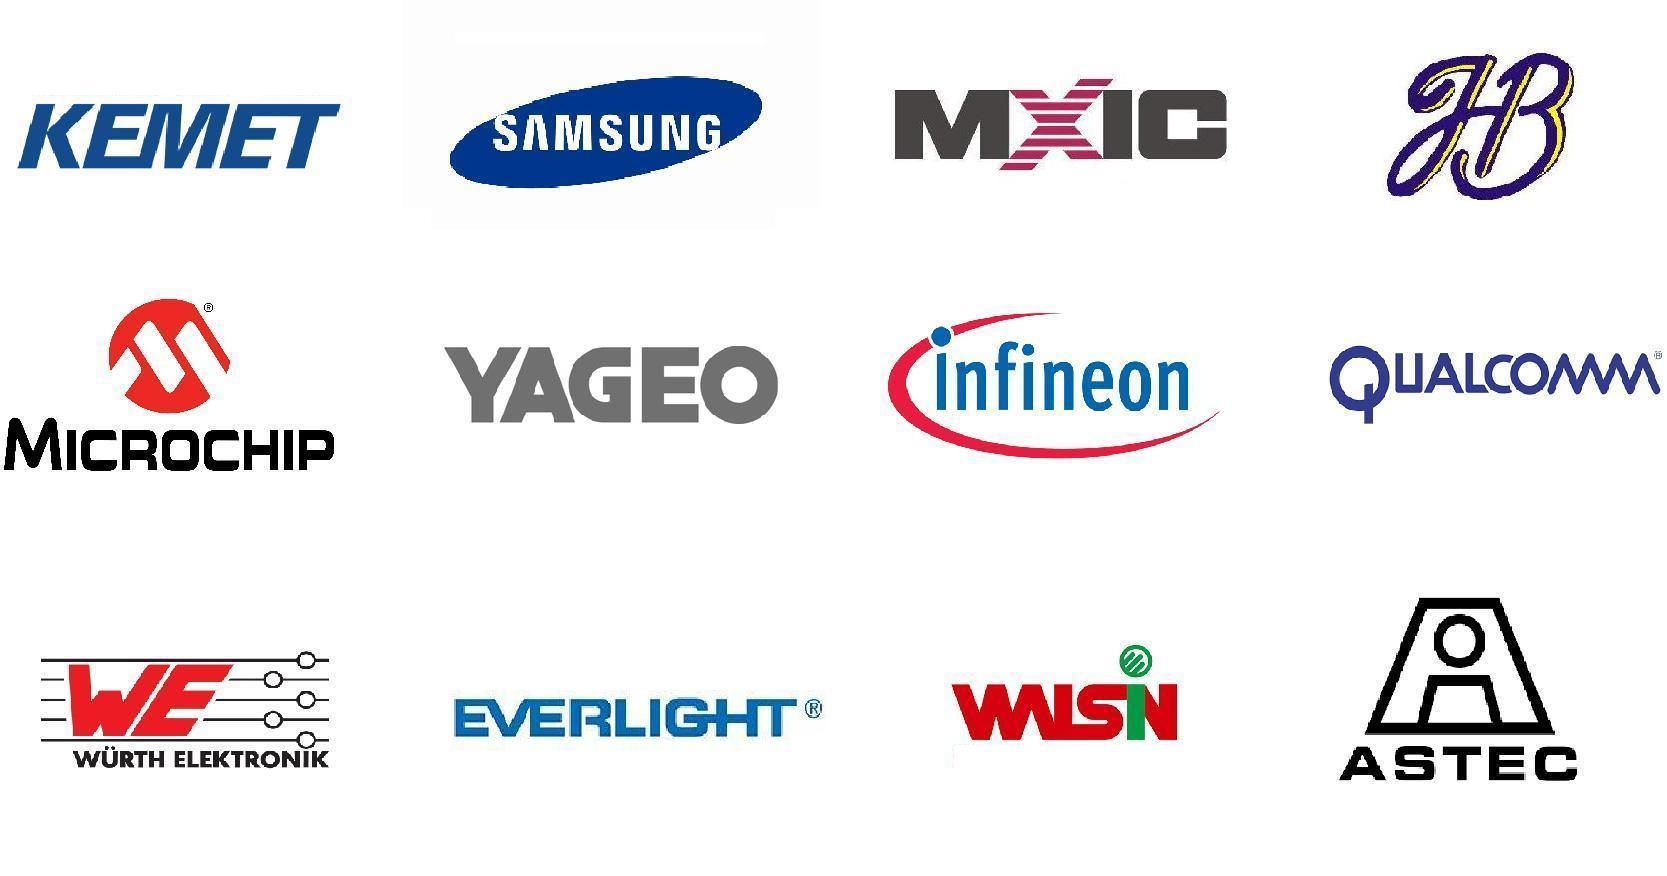
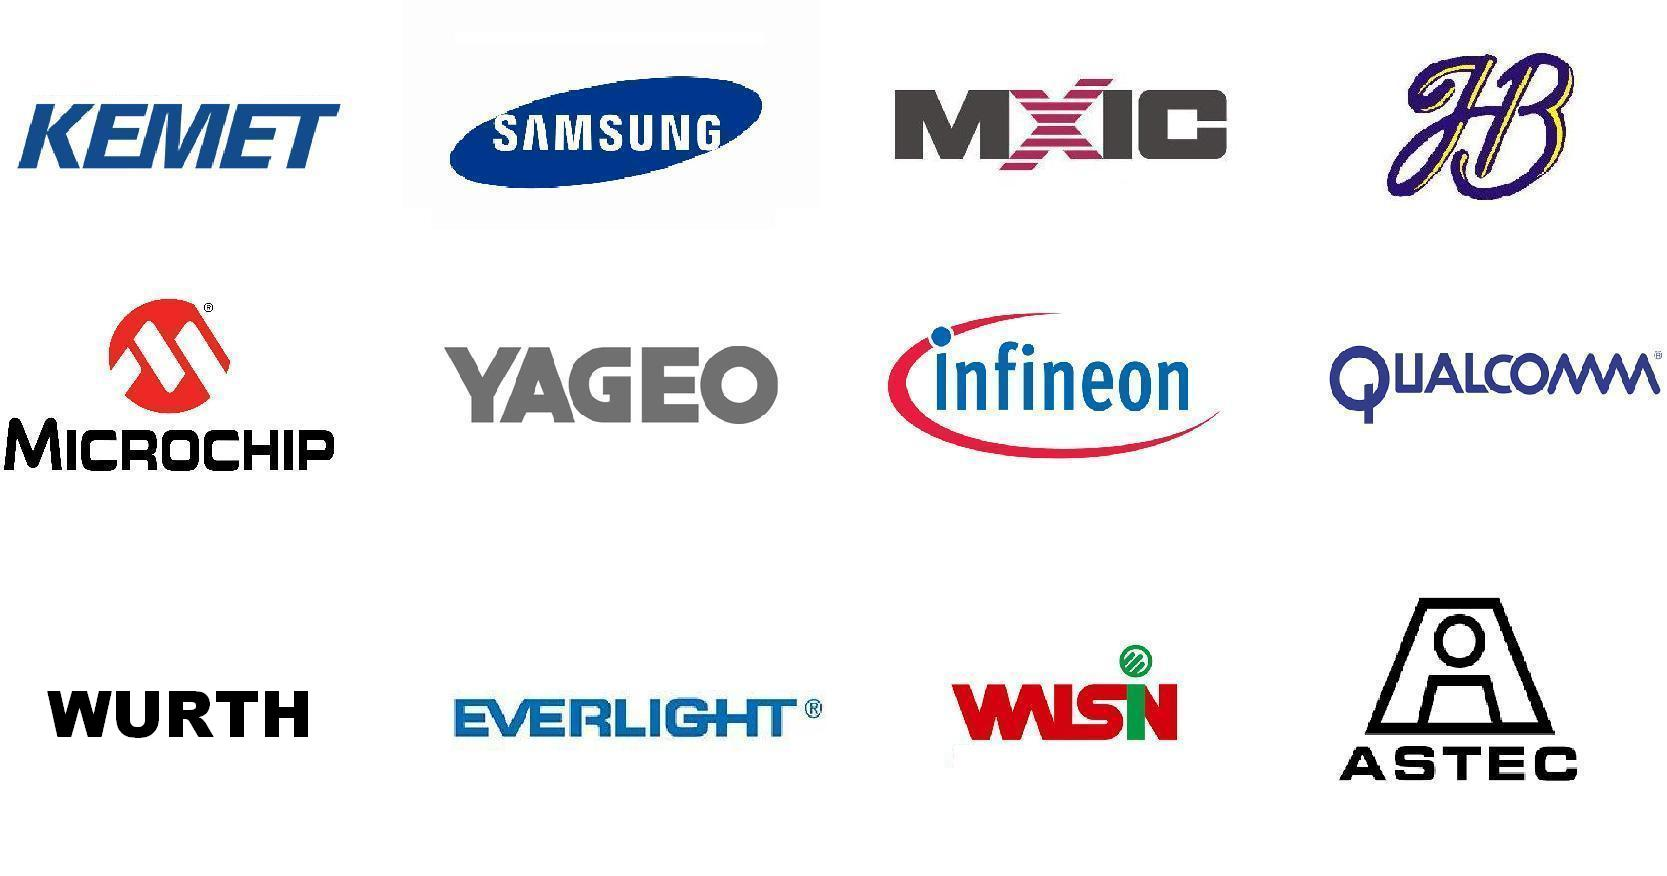
fix wrong wordings & change WURTH LINE CARD's graph

Changed region(s): [[0.0312, 0.7397, 0.2184, 0.8938]]

diff --git a/content/news.md b/content/news.md
@@ -3,7 +3,7 @@
 - 2020 
     - D&B D-U-N-S Certificate 2020
     - New parts added to product line:
-        - Simcon - GSM+GPRS Module
+        - Simcom - GSM+GPRS Module
         - Shinetsu - Zebra connectors
         - Nvidia   - SOM system on module
         - Luckylight - LED
